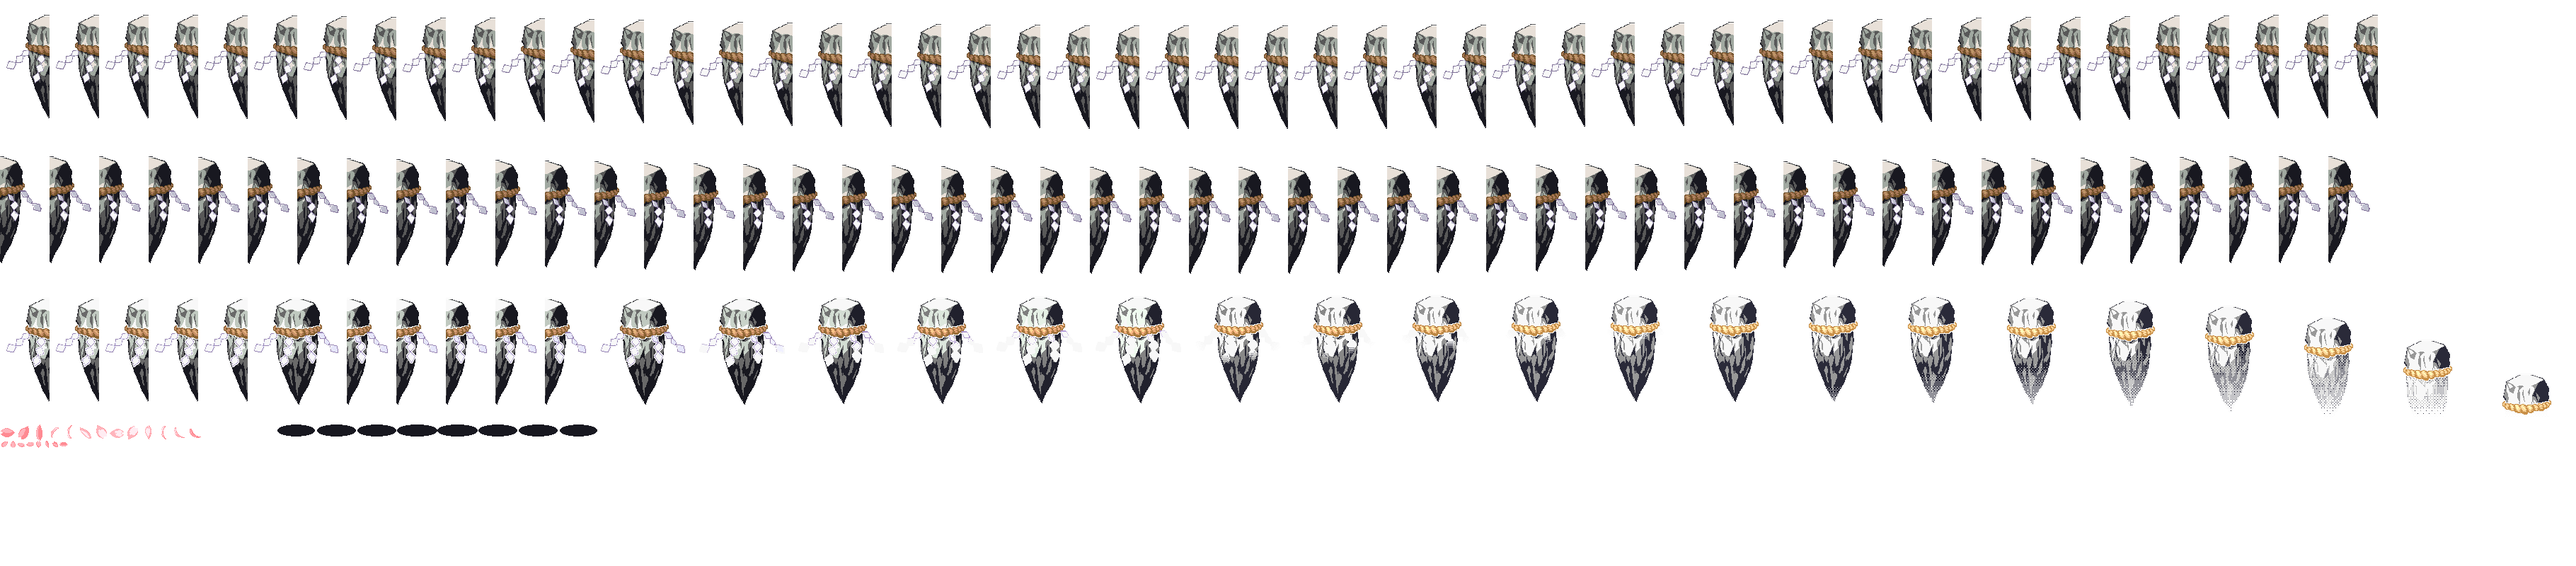
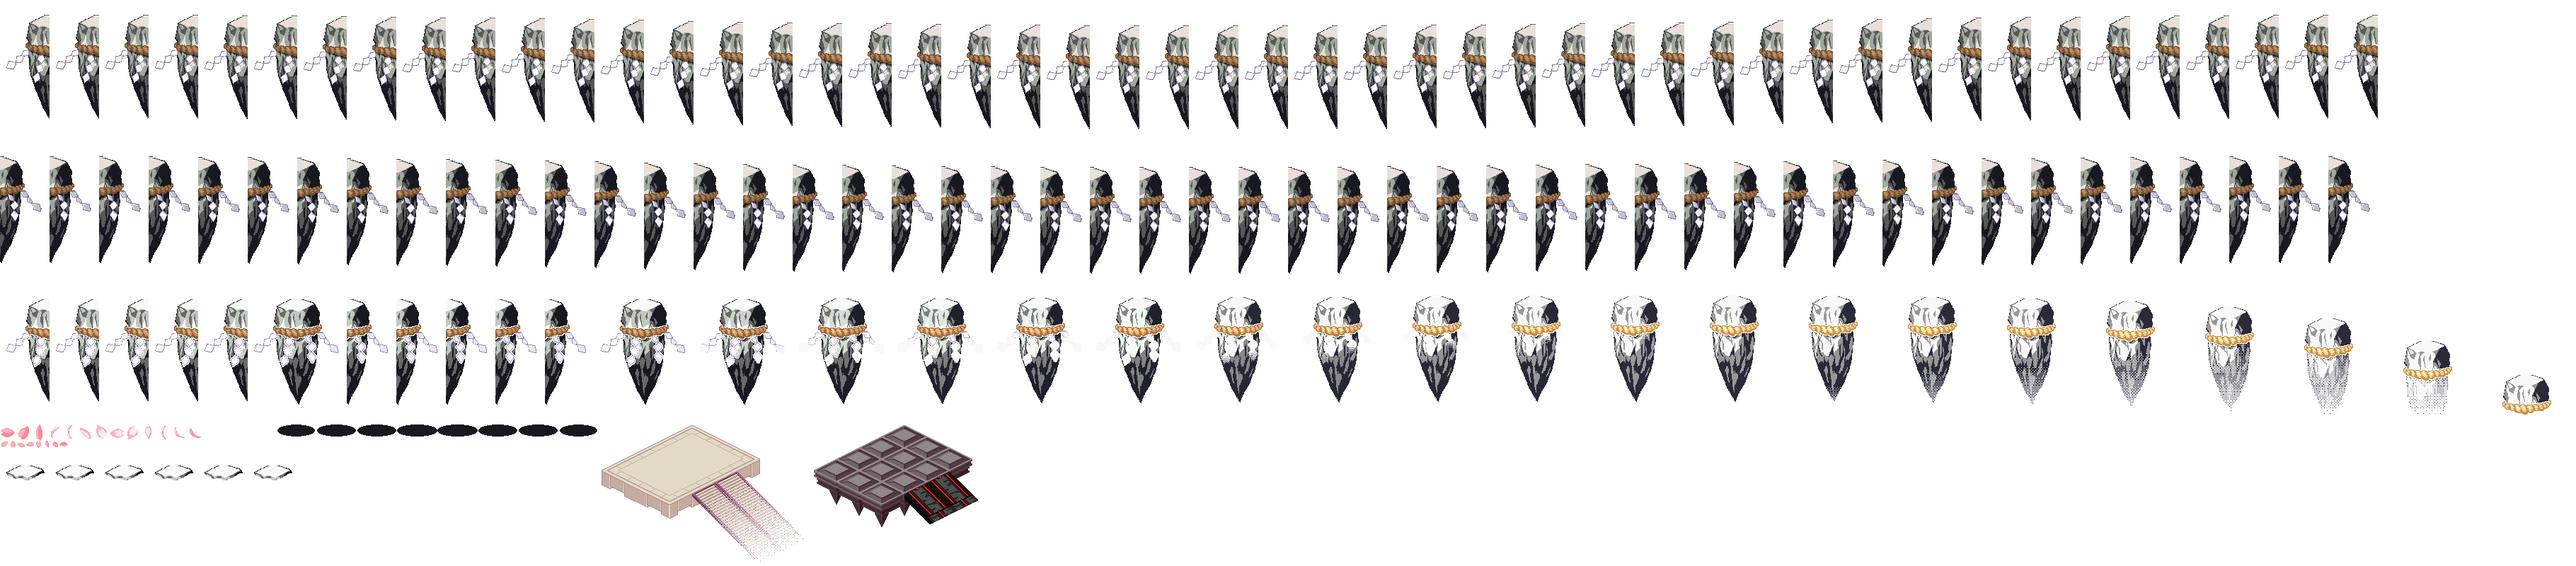
Added heaven warp effect

Changed region(s): [[0.2173, 0.75, 0.4036, 0.9688], [0.0, 0.8125, 0.0931, 0.8438]]

diff --git a/ShanghaiEXE/Effect/ShanghaiHeavenWarp.cs b/ShanghaiEXE/Effect/ShanghaiHeavenWarp.cs
@@ -1,0 +1,66 @@
+using NSShanghaiEXE.InputOutput;
+using NSShanghaiEXE.InputOutput.Rendering;
+using SlimDX;
+using System.Drawing;
+using System;
+using System.Collections.Generic;
+
+namespace NSEffect
+{
+    internal class ShanghaiHeavenWarp : EffectBase
+    {
+        private const int XOffset = 7;
+        private const int Width = 24;
+        private int ySpeed;
+        private int[] yOffsets;
+
+        public ShanghaiHeavenWarp(MyAudio s, Vector2 pd, Point posi)
+          : base(s, null, posi.X, posi.Y)
+        {
+            this.positionDirect = new Vector2(pd.X, pd.Y - 20);
+
+            this.ySpeed = 16;
+            this.yOffsets = new int[32];
+        }
+
+        public override void Updata()
+        {
+            if (this.moveflame)
+            {
+                for (int i = XOffset; i < Width; i++)
+                {
+                    var iAdj = i % 2 == 0 ? (i / 2) : (Width - ((i + 1) / 2));
+                    var yOffsetSpeed = this.ySpeed >> iAdj;
+                    yOffsets[i] += yOffsetSpeed;
+                }
+                this.ySpeed *= 2;
+            }
+
+            this.FlameControl(3);
+
+            if (this.frame > 60)
+            {
+                this.flag = false;
+            }
+        }
+
+        public override void Render(IRenderer dg)
+        {
+            if (!this.flag)
+            {
+                return;
+            }
+
+            for (int i = XOffset; i < Width; i++)
+            {
+                var xOff = i - 16;
+                var yOff = this.yOffsets[i] + 16;
+
+                this._rect = new Rectangle(i, 240, 1, 48);
+                this._position = new Vector2(this.positionDirect.X + Shake.X + xOff, this.positionDirect.Y + Shake.Y - yOff);
+                this.color = Color.White;
+                dg.DrawImage(dg, "charachip1", this._rect, false, this._position, this.rebirth, this.color);
+            }
+        }
+    }
+}

diff --git a/ShanghaiEXE/Map/Character/MapEffect.cs b/ShanghaiEXE/Map/Character/MapEffect.cs
@@ -64,7 +64,8 @@ namespace NSMap.Character
             [46] = (sound, position, field) => new AliceBed(sound, new Vector2(position.X, position.Y), new Point(0, 0), true),
             [47] = (sound, position, field) => new FireBall(sound, new Vector2(position.X, position.Y), new Point(0, 0), true),
             [48] = (sound, position, field) => new KeystoneUnlock(sound, new Vector2(position.X, position.Y), new Point(0, 0)),
-            [49] = (sound, position, field) => new PetalBreeze(sound, new Vector2(position.X, position.Y), new Point(0, 0))
+            [49] = (sound, position, field) => new PetalBreeze(sound, new Vector2(position.X, position.Y), new Point(0, 0)),
+            [50] = (sound, position, field) => new ShanghaiHeavenWarp(sound, new Vector2(position.X, position.Y), new Point(0, 0))
         };
 
     public EffectBase effect;

diff --git a/MapEditor/Models/Elements/Enums/EffectTypeNumber.cs b/MapEditor/Models/Elements/Enums/EffectTypeNumber.cs
@@ -52,5 +52,6 @@
         FireballSilent = 47,
         KeystoneUnlock = 48,
         PetalBreeze = 49,
+        ShanghaiHeavenWarp = 50,
     }
 }
